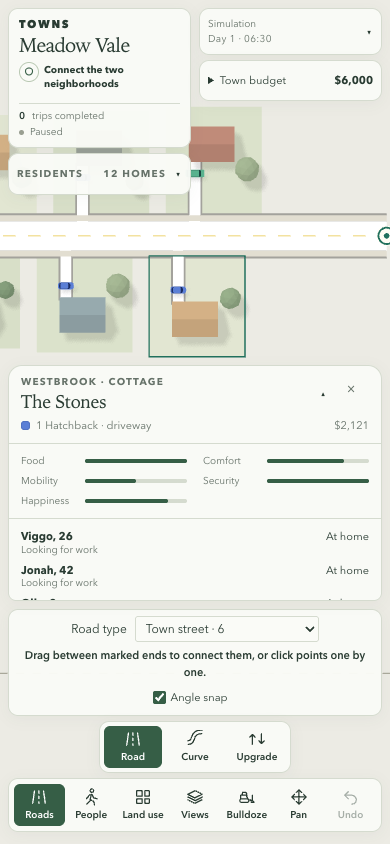
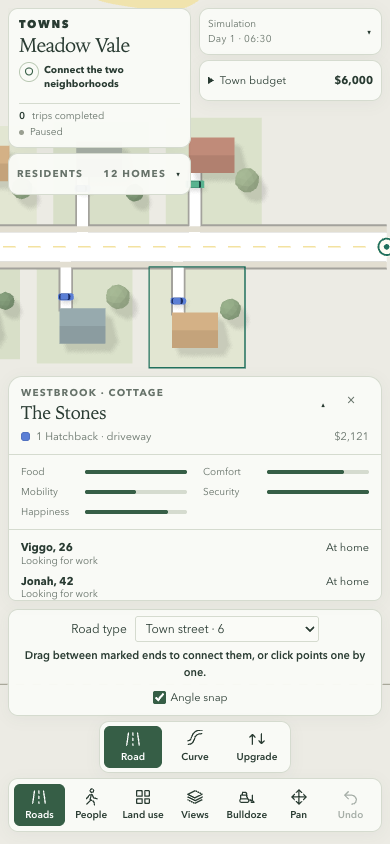
Reserve inspection space when small phone panels expand together

diff --git a/src/ui/styles.css b/src/ui/styles.css
@@ -102,7 +102,6 @@ kbd { font-family: inherit; font-size: 10px; opacity: .6; }
 button.bulldoze.active, button.bulldoze.active:hover { background: #904731; }
 .tool-divider { height: 24px; width: 1px; background: var(--line); margin: 0 3px; }
 
-
 @media (min-width: 641px) and (max-width: 1213px) {
   /* The bottom panels would meet the centred toolbar, so they stop above it, and residents shrink to a summary. */
   .hud-column { bottom: 170px; }
@@ -158,8 +157,6 @@ button.bulldoze.active, button.bulldoze.active:hover { background: #904731; }
   .inspecting .budget { max-height: 45%; overflow: auto; }
 }
 
-
-
 /* Let the toolbar reserve its actual height when tools and touch instructions wrap. */
 .hud:has(> .editor) {
   display: grid;
@@ -214,7 +211,11 @@ button.bulldoze.active, button.bulldoze.active:hover { background: #904731; }
   .hud .simulation, .hud .town, .hud .budget {
     position: static; width: 100%; margin: 0; padding: 4px 8px; max-height: 24dvh; overflow: auto; flex: none;
   }
-  .hud .hud-column.left > .town { flex: 0 1 auto; }
+  /* Leave a band of map between the upper panels and the inspector, even with every panel open. */
+  .hud.inspecting .hud-column.left { grid-area: 1 / 1 / 2 / 2; max-height: 44%; overflow: auto; }
+  .hud.inspecting .map-info { min-height: 0; overflow: auto; flex: 0 1 auto; }
+  .hud.inspecting .town { max-height: min(24dvh, 60%); }
+  .hud.inspecting .simulation, .hud.inspecting .budget { max-height: 21%; }
   .hud .simulation-heading { display: grid; gap: 1px; margin: 0; }
   .disclosure-title { position: relative; padding: 4px 16px 4px 0; min-height: 32px; align-content: center; }
   .phone-heading { display: flex; position: absolute; inset: 0; width: 100%; justify-content: flex-end; align-items: center; padding: 0; }
@@ -225,7 +226,7 @@ button.bulldoze.active, button.bulldoze.active:hover { background: #904731; }
   .hud .town-demand, .hud .town-feed { display: grid; }
   .hud .household {
     position: absolute; bottom: 0; right: 0; width: calc(100vw - 16px);
-    max-height: 28dvh; padding: 5px 12px; border-radius: 14px 14px 8px 8px;
+    max-height: min(28dvh, 38%); padding: 5px 12px; border-radius: 14px 14px 8px 8px;
   }
   .hud .household-name { font-size: 18px; margin: 2px 0; }
   .hud .household .close { height: 36px; width: 36px; margin: 0; }
@@ -237,5 +238,4 @@ button.bulldoze.active, button.bulldoze.active:hover { background: #904731; }
   .hud .tool-bar { width: min(560px, calc(100vw - 16px)); display: grid; gap: 1px; grid-template-columns: repeat(7, minmax(0, 1fr)); }
   .tool-tray .tool { min-width: 58px; }
   .hud .placement-info .mouse-help { display: none; }
-  .hud .budget[open] { max-height: 24dvh; }
 }

diff --git a/tests/e2e/inspection.spec.ts b/tests/e2e/inspection.spec.ts
@@ -3,6 +3,7 @@ import { meadowScenario } from '../../src/sim/scenarios/meadow';
 
 for (const [device, viewport] of [
   ['desktop', { width: 1440, height: 900 }],
+  ['small phone', { width: 320, height: 568 }],
   ['phone', { width: 390, height: 844 }],
   ['landscape', { width: 844, height: 390 }],
   ['tablet', { width: 768, height: 1024 }],
@@ -48,6 +49,12 @@ for (const [device, viewport] of [
         return collisions;
       });
       await expect.poll(obstructions).toEqual([]);
+      if (device === 'small phone') {
+        await page.locator('.household .phone-heading').click();
+        await page.locator('.town .phone-heading').click();
+        await page.locator('.simulation .phone-heading').click();
+        await page.getByRole('button', { name: 'Roads', exact: true }).click();
+      }
       await budget.locator('summary').click();
       await expect(budget).toHaveAttribute('open', '');
       await expect.poll(obstructions).toEqual([]);
